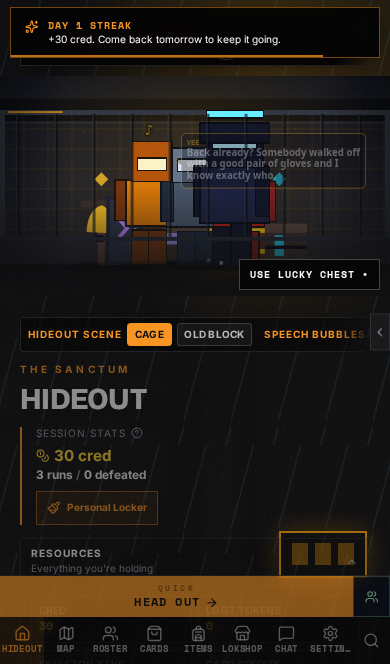
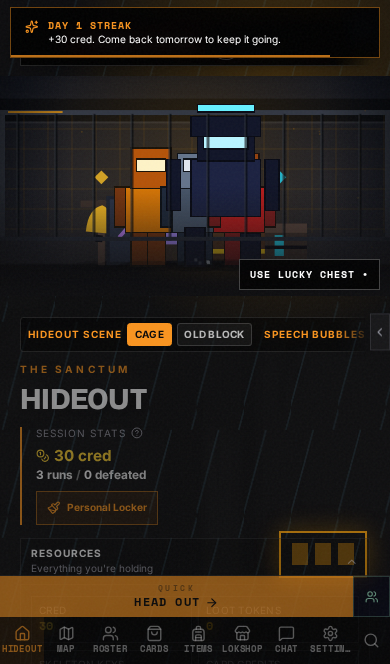
Fix fracture cache churn, grounded shadows and keyboard modal exits

Changed region(s): [[0.2462, 0.1506, 0.9231, 0.3916]]

diff --git a/artifacts/survivor-616/src/game/render/propFracture.ts b/artifacts/survivor-616/src/game/render/propFracture.ts
@@ -1,3 +1,4 @@
+import { PropTextureCache } from './propTextureCache';
 import { buildCrackNetwork, shardTiling } from './blockBreak';
 import { propNoise, type PropDamageVisual, type PropMaterial } from './breakableFx';
 
@@ -34,25 +35,24 @@ export function propPieces(seed: number, material: PropMaterial, quality: Qualit
   return pieces;
 }
 
-const textures = new Map<string, HTMLCanvasElement>();
-const TEXTURE_LIMIT = 24;
+const textures = new PropTextureCache<HTMLCanvasElement | undefined>();
 function textureFor(art: FracturedProp, paint: (ctx: CanvasRenderingContext2D, snapshot?: boolean) => void, padding: number) {
   if (typeof document === 'undefined') return undefined;
-  const key = `${art.cacheKey}:${art.seed}:${art.w}:${art.h}:${art.quality}:${art.brokenAt ?? 'damage'}`;
-  const old = textures.get(key);
-  if (old) return old;
-  const canvas = document.createElement('canvas');
-  const width = art.w + padding * 2, height = art.h + padding * 2;
-  const resolution = Math.min(1.5, 192 / Math.max(width, height));
-  canvas.width = Math.max(1, Math.ceil(width * resolution)); canvas.height = Math.max(1, Math.ceil(height * resolution));
-  const ctx = canvas.getContext('2d');
-  if (!ctx) return undefined;
-  ctx.scale(canvas.width / width, canvas.height / height);
-  ctx.translate(width / 2 - art.x, height / 2 - art.y);
-  paint(ctx, true);
-  if (textures.size >= TEXTURE_LIMIT) textures.delete(textures.keys().next().value!);
-  textures.set(key, canvas);
-  return canvas;
+  const key = `${art.cacheKey}:${art.seed}:${art.w}:${art.h}:${padding}:${art.material}:${art.quality}:${art.brokenAt ?? 'damage'}`;
+  return textures.getOrCreate(key, art.now, () => {
+    const canvas = document.createElement('canvas');
+    const width = art.w + padding * 2, height = art.h + padding * 2;
+    const resolution = Math.min(1.5, 192 / Math.max(width, height));
+    canvas.width = Math.max(1, Math.ceil(width * resolution)); canvas.height = Math.max(1, Math.ceil(height * resolution));
+    const ctx = canvas.getContext('2d');
+    if (!ctx) return undefined;
+    ctx.scale(canvas.width / width, canvas.height / height);
+    ctx.translate(width / 2 - art.x, height / 2 - art.y);
+    paint(ctx, true);
+    // The fractures travel with the painted pieces instead of disappearing at the break.
+    if (art.brokenAt !== undefined) drawNetwork(ctx, { ...art, damageRatio: 1, motionEnabled: false });
+    return canvas;
+  });
 }
 
 const EDGE: Record<PropMaterial, string> = { wood: '#e8b67b', stone: '#cbd5e1', metal: '#a5bbc9', glass: '#d5faff', organic: '#88b896' };
@@ -75,6 +75,17 @@ export function drawFracturedProp(ctx: CanvasRenderingContext2D, art: FracturedP
   const width = art.w + padding * 2, height = art.h + padding * 2;
   const texture = separated ? textureFor(art, paint, padding) : undefined;
   ctx.save();
+  if (texture && !broken) {
+    // A damaged object keeps one grounded footprint; it is never cut into the artwork.
+    ctx.fillStyle = '#000000'; ctx.globalAlpha = 0.24;
+    ctx.beginPath(); ctx.ellipse(art.x + 4, art.y + art.h * 0.5 + 10, art.w * 0.44, Math.max(3, art.h * 0.1), 0, 0, Math.PI * 2); ctx.fill();
+    ctx.globalAlpha = 1;
+  }
+  const hitAge = art.lastHitAt === undefined ? Infinity : art.now - art.lastHitAt;
+  if (!broken && motion && hitAge >= 0 && hitAge < 140) {
+    const recoil = 1 - hitAge / 140;
+    ctx.translate(Math.sin(hitAge * 0.12) * recoil * 2.2, Math.cos(hitAge * 0.1) * recoil * 0.8);
+  }
   if (!texture) paint(ctx);
   else {
     const pieces = propPieces(art.seed, art.material, art.quality);

diff --git a/artifacts/survivor-616/e2e/overlay-layering.spec.ts b/artifacts/survivor-616/e2e/overlay-layering.spec.ts
@@ -38,8 +38,18 @@ for (const layout of ['classic', 'new']) {
     await reachable(page, 'button-lok-chat-close');
     await expect(page.getByTestId('notification-toast-stack')).toHaveCount(0);
     await page.screenshot({ path: path.join(previews, `chat-${layout}-phone.png`) });
-    await page.getByTestId('button-lok-chat-close').click();
+    const close = page.getByTestId('button-lok-chat-close');
+    // Tabbing backwards from the first visible control wraps inside chat, not into the dock.
+    await page.getByTestId('button-lok-chat-clear').focus();
+    await page.keyboard.press('Shift+Tab');
+    expect(await page.evaluate(() => !!document.activeElement?.closest('[data-testid="lok-chat"]'))).toBe(true);
+    for (let index = 0; index < 24; index += 1) {
+      await page.keyboard.press('Tab');
+      expect(await page.evaluate(() => !!document.activeElement?.closest('[data-testid="lok-chat"]'))).toBe(true);
+    }
+    await close.click();
     await expect(page.getByTestId('lok-chat')).toHaveCount(0);
+    await expect(page.getByTestId('dock-chat')).toBeFocused();
     await page.getByTestId('dock-search').click();
     const dialog = page.getByRole('dialog');
     await expect(dialog).toBeVisible();
@@ -70,7 +80,17 @@ for (const layout of ['classic', 'new']) {
     await expect(settings).toBeVisible();
     await reachable(page, 'button-back');
     await page.screenshot({ path: path.join(previews, `settings-${layout}-phone.png`) });
-    await page.getByTestId('button-back').click();
+    await search.focus();
+    await page.keyboard.press('Escape');
+    await expect(settings).toHaveCount(0);
+    await expect(page.getByTestId('overlay-paused')).toBeVisible();
+    await page.getByTestId('button-pause-soundtrack').click();
+    const soundtrack = page.getByTestId('overlay-pause-soundtrack');
+    await expect(soundtrack).toBeVisible();
+    const musicInput = soundtrack.locator('input').first();
+    if (await musicInput.count()) await musicInput.focus();
+    await page.keyboard.press('Escape');
+    await expect(soundtrack).toHaveCount(0);
     await expect(page.getByTestId('overlay-paused')).toBeVisible();
     await page.getByTestId('button-resume').click();
     await expect(page.getByTestId('overlay-paused')).toHaveCount(0);

diff --git a/artifacts/survivor-616/src/ui/ModalFocus.tsx b/artifacts/survivor-616/src/ui/ModalFocus.tsx
@@ -1,0 +1,39 @@
+import { useLayoutEffect, useRef, type ReactNode } from 'react';
+
+const FOCUSABLE = 'button:not(:disabled),a[href],input:not(:disabled),select:not(:disabled),textarea:not(:disabled),[tabindex]:not([tabindex="-1"])';
+
+/** Contain keyboard focus in a custom modal and restore the actual launcher on close. */
+export function ModalFocus({ children, onClose }: { children: ReactNode; onClose: () => void }) {
+  const scope = useRef<HTMLDivElement>(null);
+  const close = useRef(onClose);
+  close.current = onClose;
+  useLayoutEffect(() => {
+    const root = scope.current!;
+    const opener = document.activeElement instanceof HTMLElement ? document.activeElement : null;
+    const controls = () => Array.from(root.querySelectorAll<HTMLElement>(FOCUSABLE)).filter(el => el.getClientRects().length > 0 && !el.closest('[inert],[aria-hidden="true"]'));
+    const first = () => { const items = controls(); return items.find(el => el instanceof HTMLInputElement) ?? items[0]; };
+    const onKey = (event: KeyboardEvent) => {
+      if (event.key === 'Escape') {
+        event.preventDefault(); event.stopPropagation(); close.current();
+      } else if (event.key === 'Tab') {
+        const items = controls(), start = items[0], end = items[items.length - 1];
+        if (!start || !end) { event.preventDefault(); return; }
+        if (!root.contains(document.activeElement) || (event.shiftKey ? document.activeElement === start : document.activeElement === end)) {
+          event.preventDefault(); (event.shiftKey ? end : start).focus();
+        }
+      }
+    };
+    const onFocus = (event: FocusEvent) => {
+      if (event.target instanceof Node && !root.contains(event.target)) first()?.focus();
+    };
+    first()?.focus();
+    document.addEventListener('keydown', onKey, true);
+    document.addEventListener('focusin', onFocus);
+    return () => {
+      document.removeEventListener('keydown', onKey, true);
+      document.removeEventListener('focusin', onFocus);
+      if (opener?.isConnected) opener.focus();
+    };
+  }, []);
+  return <div ref={scope} className="contents">{children}</div>;
+}

diff --git a/artifacts/survivor-616/src/game/render/draw.ts b/artifacts/survivor-616/src/game/render/draw.ts
@@ -2209,14 +2209,16 @@ type SceneObstacle = {
     marks?: readonly number[]; sliding?: boolean;
   };
 
-function drawOrdinaryPropBody(ctx: CanvasRenderingContext2D, w: World, obstacle: SceneObstacle, colors: { top: string; side: string; trim: string }) {
+function drawOrdinaryPropBody(ctx: CanvasRenderingContext2D, w: World, obstacle: SceneObstacle, colors: { top: string; side: string; trim: string }, snapshot = false) {
   const height = 16;
   const x = obstacle.x - obstacle.w / 2, y = obstacle.y - obstacle.h / 2;
   const breakFade = 1;
   ctx.save();
-  ctx.globalAlpha = 0.35 * breakFade;
-  ctx.fillStyle = '#000000';
-  ctx.fillRect(x + 10, y + obstacle.h + 10, obstacle.w, Math.max(5, obstacle.h * 0.18));
+  if (!snapshot) {
+    ctx.globalAlpha = 0.35 * breakFade;
+    ctx.fillStyle = '#000000';
+    ctx.fillRect(x + 10, y + obstacle.h + 10, obstacle.w, Math.max(5, obstacle.h * 0.18));
+  }
   ctx.globalAlpha = breakFade;
 
   ctx.fillStyle = colors.side;
@@ -2845,11 +2847,11 @@ function drawObstacles(
       motionEnabled: w.effectMotionEnabled,
       fragmentLimit: w.graphicsQuality === 'performance' ? 4 : w.graphicsQuality === 'balanced' ? 6 : 9,
       marks: obstacle.marks?.map((value, index) => index % 2 ? value - height : value),
-      cacheKey: `${obstacle.kind}:${obstacle.artAssetId ?? ''}:${colors.top}`,
+      cacheKey: `${obstacle.kind}:${obstacle.artAssetId ?? ''}:${colors.top}:${colors.side}:${colors.trim}`,
       quality: w.graphicsQuality === 'performance' ? 'performance' as const : w.graphicsQuality === 'balanced' ? 'balanced' as const : 'high' as const,
       padding: /tree/.test(obstacle.kind) ? Math.max(obstacle.w, obstacle.h) : 18,
     };
-    if (obstacle.breakable) drawFracturedProp(ctx, damageVisual, (target) => drawOrdinaryPropBody(target, w, obstacle, colors));
+    if (obstacle.breakable) drawFracturedProp(ctx, damageVisual, (target, snapshot) => drawOrdinaryPropBody(target, w, obstacle, colors, snapshot));
     else drawOrdinaryPropBody(ctx, w, obstacle, colors);
     if (obstacle.brokenAt === undefined) drawOrdinaryPropState(ctx, w, obstacle);
   }

diff --git a/artifacts/survivor-616/src/game/data/changelog.ts b/artifacts/survivor-616/src/game/data/changelog.ts
@@ -2246,6 +2246,7 @@ export const CHANGELOG: ChangelogEntry[] = [
   },
   { version: '0.42.58', date: '2026-10-30', publishedAt: '2026-10-30T05:45:00Z', kind: 'update', title: 'Scenery with substance', body: ['Scenery across maps now carries plank grain, fasteners, masonry seams, glass reflections and living veins, with detail scaled to graphics quality.', 'Damage grows branching fractures; broken props throw material-shaped fragments with lift, spin and restrained dust. Prop details fade with the body, and reduced-motion effects stay still.'] },
   { version: '0.42.59', date: '2026-10-30', publishedAt: '2026-10-30T10:55:00Z', kind: 'update', title: 'Objects come apart, menus stay in reach', body: ['Map props now split into pieces of their own artwork, with growing impact fractures, board and panel separation, tumbling shards and a settling rubble phase, using the ice and glass fracture system.', 'Dialogs, run settings, soundtrack controls and nested menus share a viewport layer above navigation. Typing in settings no longer triggers run shortcuts, and changing GUI layouts clears stale drawers.', 'Both chat and crew access now live in the navigation dock; duplicate hideout chat buttons have been removed.'] },
+  { version: '0.42.60', date: '2026-10-30', publishedAt: '2026-10-30T12:15:00Z', kind: 'update', title: 'Cleaner breaks and keyboard exits', body: ['Broken pieces keep their fractures and leave ground shadows on the ground. Fresh hits add a short recoil, and crowded damage scenes reuse their hottest artwork snapshots instead of churning the entire cache.', 'Escape returns from run settings and soundtrack search without resuming the run. Chat keeps keyboard focus inside its window and returns focus to the dock when closed.'] },
 ];
 
 export const CURRENT_VERSION = CHANGELOG[CHANGELOG.length - 1]!.version;

diff --git a/artifacts/survivor-616/src/ui/LokChat.tsx b/artifacts/survivor-616/src/ui/LokChat.tsx
@@ -1,3 +1,4 @@
+import { ModalFocus } from './ModalFocus';
 import { ViewportOverlay } from './ViewportOverlay';
 /**
  * LOK Chat: message the crew you have rescued. Their answers come from the procedural chat
@@ -172,19 +173,7 @@ export function LokChatOverlay({ allies, buildContext, roomNameOf, initialId, in
     return () => setOpenThread(null);
   }, [ally?.id]);
 
-  useEffect(() => {
-    const onKey = (event: KeyboardEvent) => { if (event.key === 'Escape') onClose(); };
-    window.addEventListener('keydown', onKey);
-    return () => window.removeEventListener('keydown', onKey);
-  }, [onClose]);
-
   useEffect(() => { inputRef.current?.focus(); }, [selected]);
-
-  // Hand focus back to whatever opened the window (the hub's LOK Chat button) when it closes.
-  useEffect(() => {
-    const opener = document.activeElement as HTMLElement | null;
-    return () => { if (opener && typeof opener.focus === 'function') opener.focus(); };
-  }, []);
 
   const clearAll = () => {
     if (window.confirm(t('lokChat.clearConfirm'))) clearLokChat();
@@ -280,6 +269,7 @@ export function LokChatOverlay({ allies, buildContext, roomNameOf, initialId, in
 
   return (
     <ViewportOverlay>
+    <ModalFocus onClose={onClose}>
     <div className="fixed inset-0 z-[160] flex items-center justify-center bg-black/75 p-2 sm:p-4" data-testid="lok-chat" onMouseDown={(event) => { if (event.target === event.currentTarget) onClose(); }}>
       <div
         role="dialog"
@@ -488,6 +478,7 @@ export function LokChatOverlay({ allies, buildContext, roomNameOf, initialId, in
         </div>
       </div>
     </div>
+    </ModalFocus>
     </ViewportOverlay>
   );
 }

diff --git a/artifacts/survivor-616/src/game/render/mapPackArt.ts b/artifacts/survivor-616/src/game/render/mapPackArt.ts
@@ -34,10 +34,10 @@ export function drawMapPackProp(
     lastHitY: feedback.lastHitY, brokenAt: feedback.brokenAt, motionEnabled: feedback.motionEnabled,
     marks: feedback.marks, cacheKey: id,
     quality: (feedback.fragmentLimit ?? 9) <= 4 ? 'performance' : (feedback.fragmentLimit ?? 9) <= 6 ? 'balanced' : 'high',
-  }, target => drawMapPackBody(target, id, x, y, w, h, now, feedback));
+  }, (target, snapshot) => drawMapPackBody(target, id, x, y, w, h, now, feedback, snapshot));
 }
 
-function drawMapPackBody(ctx: CanvasRenderingContext2D, id: string, x: number, y: number, w: number, h: number, now: number, feedback: MapPropDamageFeedback) {
+function drawMapPackBody(ctx: CanvasRenderingContext2D, id: string, x: number, y: number, w: number, h: number, now: number, feedback: MapPropDamageFeedback, snapshot = false) {
   const art = MAP_PROP_ART_BY_ID[id];
   if (!art) return;
   const animationTime = feedback.motionEnabled === false ? 0 : now;
@@ -60,8 +60,10 @@ function drawMapPackBody(ctx: CanvasRenderingContext2D, id: string, x: number, y
   };
 
   // A soft footprint and a darker lower edge keep every object grounded.
-  ctx.globalAlpha = 0.32 * breakFade;
-  fill('#000000', -47, -39, 100, 92);
+  if (!snapshot) {
+    ctx.globalAlpha = 0.32 * breakFade;
+    fill('#000000', -47, -39, 100, 92);
+  }
   ctx.globalAlpha = breakFade;
   fill(art.theme === 'null' ? '#06251e' : '#1c2630', -50, -50, 100, 100);
   fill(art.theme === 'null' ? '#0b4231' : '#334155', -47, -48, 94, 88);

diff --git a/artifacts/survivor-616/src/game/render/propTextureCache.ts b/artifacts/survivor-616/src/game/render/propTextureCache.ts
@@ -1,0 +1,28 @@
+/** Keep hot entries when a crowd exceeds capacity, rather than evicting the next frame's first entry. */
+export class PropTextureCache<T> {
+  private readonly entries = new Map<string, { value: T; usedAt: number }>();
+  private clock = -Infinity;
+  constructor(private readonly limit = 24, private readonly coldAfterMs = 250) {}
+
+  get size() { return this.entries.size; }
+
+  getOrCreate(key: string, now: number, create: () => T): T {
+    // A new run can restart its elapsed clock and reuse actor IDs.
+    if (now < this.clock) this.entries.clear();
+    this.clock = now;
+    const entry = this.entries.get(key);
+    if (entry) { entry.usedAt = now; return entry.value; }
+    const value = create();
+    if (this.entries.size >= this.limit) {
+      let cold: string | undefined;
+      for (const [candidateKey, candidate] of this.entries) {
+        if (now - candidate.usedAt > this.coldAfterMs) { cold = candidateKey; break; }
+      }
+      // Overflow is painted uncached. The hot set remains intact for the next frame.
+      if (cold === undefined) return value;
+      this.entries.delete(cold);
+    }
+    this.entries.set(key, { value, usedAt: now });
+    return value;
+  }
+}

diff --git a/artifacts/survivor-616/src/game/render/propTextureCache.test.ts b/artifacts/survivor-616/src/game/render/propTextureCache.test.ts
@@ -1,0 +1,25 @@
+import assert from 'node:assert/strict';
+import { test } from 'node:test';
+import { PropTextureCache } from './propTextureCache';
+
+test('25 damaged props do not rebuild all 25 snapshots every frame in a 24-entry cache', () => {
+  const cache = new PropTextureCache<object>();
+  let paints = 0;
+  for (const now of [0, 16, 32]) {
+    for (let prop = 0; prop < 25; prop += 1) cache.getOrCreate(`${prop}`, now, () => { paints += 1; return {}; });
+  }
+  assert.equal(paints, 27, 'only the overflow prop is repainted after the first frame');
+  assert.equal(cache.size, 24);
+});
+
+test('props leaving the view free a cold slot, and a new run cannot reuse old actor artwork', () => {
+  const cache = new PropTextureCache<object>(2, 250);
+  const first = cache.getOrCreate('a', 0, () => ({}));
+  cache.getOrCreate('b', 0, () => ({}));
+  const next = cache.getOrCreate('c', 300, () => ({}));
+  assert.equal(cache.getOrCreate('c', 316, () => { throw Error('should stay cached'); }), next);
+  assert.equal(cache.size, 2);
+  const restarted = cache.getOrCreate('a', 0, () => ({}));
+  assert.notEqual(restarted, first);
+  assert.equal(cache.size, 1);
+});

diff --git a/artifacts/survivor-616/e2e/scenery-materials.spec.ts b/artifacts/survivor-616/e2e/scenery-materials.spec.ts
@@ -58,12 +58,14 @@ test('fractures carry the original artwork, animate its pieces, and remain stati
       const pixels = Array.from(ctx.getImageData(0, 0, 300, 300).data);
       const red = pixels.filter((value, i) => i % 4 === 0 && value > 200 && pixels[i + 2]! < 10).length;
       const blue = pixels.filter((value, i) => i % 4 === 2 && value > 200 && pixels[i - 2]! < 10).length;
-      return { pixels, red, blue, alpha: ctx.globalAlpha };
+      const ink = pixels.filter((value, i) => i % 4 === 0 && pixels[i + 1]! > value + 3 && pixels[i + 2]! > pixels[i + 1]! + 5 && pixels[i + 3]! > 200).length;
+      return { pixels, red, blue, ink, alpha: ctx.globalAlpha };
     };
     return { early: draw(120, true), late: draw(800, true), stillA: draw(120, false), stillB: draw(800, false), expired: draw(2200, true) };
   });
   expect(result.early.red).toBeGreaterThan(500);
   expect(result.early.blue).toBeGreaterThan(500);
+  expect(result.early.ink).toBeGreaterThan(10);
   expect(result.early.pixels).not.toEqual(result.late.pixels);
   expect(result.stillA.pixels).toEqual(result.stillB.pixels);
   expect(result.expired.pixels.every(value => value === 0)).toBe(true);

diff --git a/artifacts/survivor-616/src/game/RunScreen.tsx b/artifacts/survivor-616/src/game/RunScreen.tsx
@@ -543,9 +543,14 @@ export function RunScreen({
   useEffect(() => {
     const down = (event: KeyboardEvent) => {
       const target = event.target instanceof Element ? event.target : null;
-      if (target?.closest('input,textarea,select,[contenteditable="true"]')) return;
       if (document.querySelector('#viewport-overlays [aria-modal="true"]')) return;
       const key = event.key.toLowerCase();
+      if (key === 'escape' && phaseRef.current === 'paused' && (runSettingsOpenRef.current || pauseSoundtrackOpenRef.current)) {
+        event.preventDefault();
+        if (!event.repeat) { setRunSettingsOpen(false); setPauseSoundtrackOpen(false); }
+        return;
+      }
+      if (target?.closest('input,textarea,select,[contenteditable="true"]')) return;
       const controls = getControls();
       const action = actionForKey(controls, key);
       if (['arrowup', 'arrowdown', 'arrowleft', 'arrowright', ' '].includes(key) || action === 'dash') {

diff --git a/.agents/memory/object-destruction-effects.md b/.agents/memory/object-destruction-effects.md
@@ -19,3 +19,10 @@ Object cracking and destruction are a standing major gameplay priority requested
 - `e2e/scenery-materials.spec.ts` checks all 96 map-prop/motion/quality expiry combinations, reduced-motion spores, original artwork carried on fragments, motion versus static poses, and canvas-state restoration.
 - Interactive preview: `artifacts/survivor-616/previews/scenery-fracture.html`. Screenshots and reproduction instructions live under `docs/previews/scenery-ui/`, as requested by the owner. Keep future visual evidence in the repository too.
 - Next: crowded combat on physical phones, especially cache churn when many large props break together. Chromium evidence does not establish an iPhone frame-rate or memory guarantee.
+
+## Follow-up repairs (0.42.60)
+
+- Body painters now honor the snapshot flag: floor shadows are excluded from fragmented artwork. Damaged props retain one stationary footprint; broken props use their separate fragment shadows.
+- The full fracture network is painted into a destroyed snapshot so its crack detail travels on the pieces. Motion-enabled intact hits add a short, bounded recoil; reduced motion skips it.
+- `propTextureCache.ts` retains the hot 24 snapshots instead of evicting them on every overflow. Uncached overflow props still render faithfully. Entries unused for more than 250 ms may be replaced, and elapsed-clock rollback clears prior-run artwork. A 25-prop/three-frame regression needs 27 paints instead of 75. This reduces churn without increasing the retained texture budget; larger overflow groups can still cost extra raster work.
+- Snapshot keys include material, padding and the full ordinary prop palette. Geometry/rewards remain unchanged.
